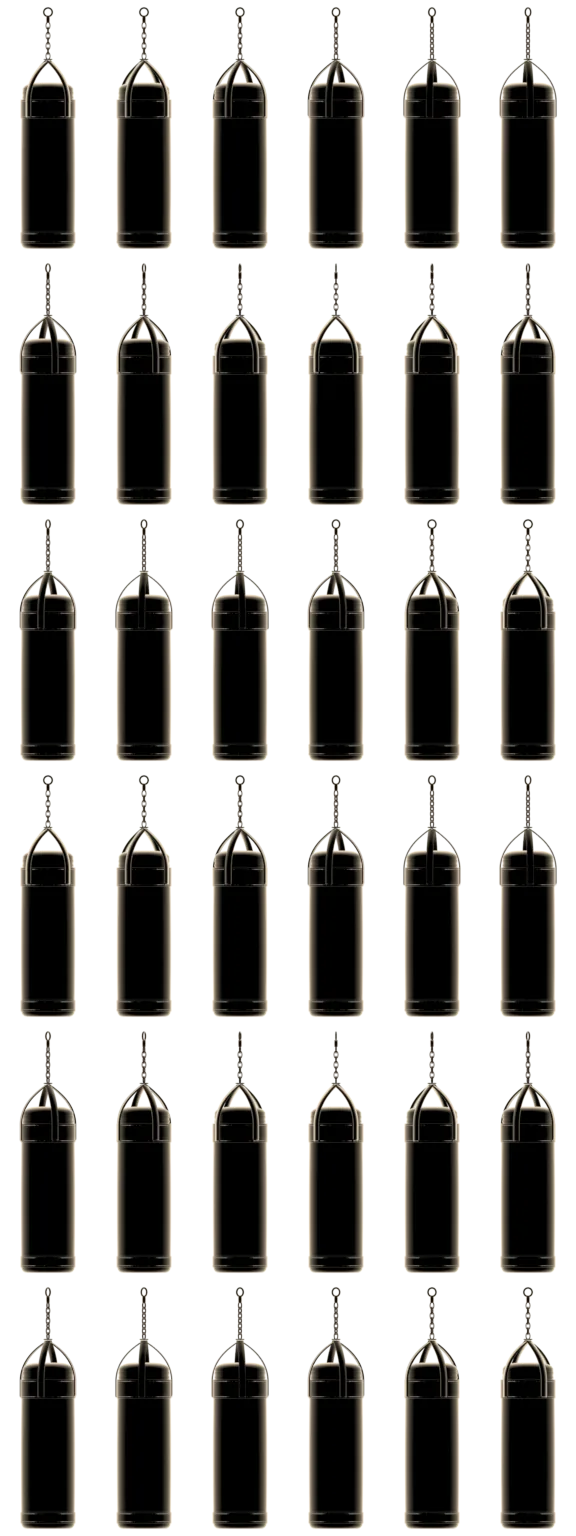
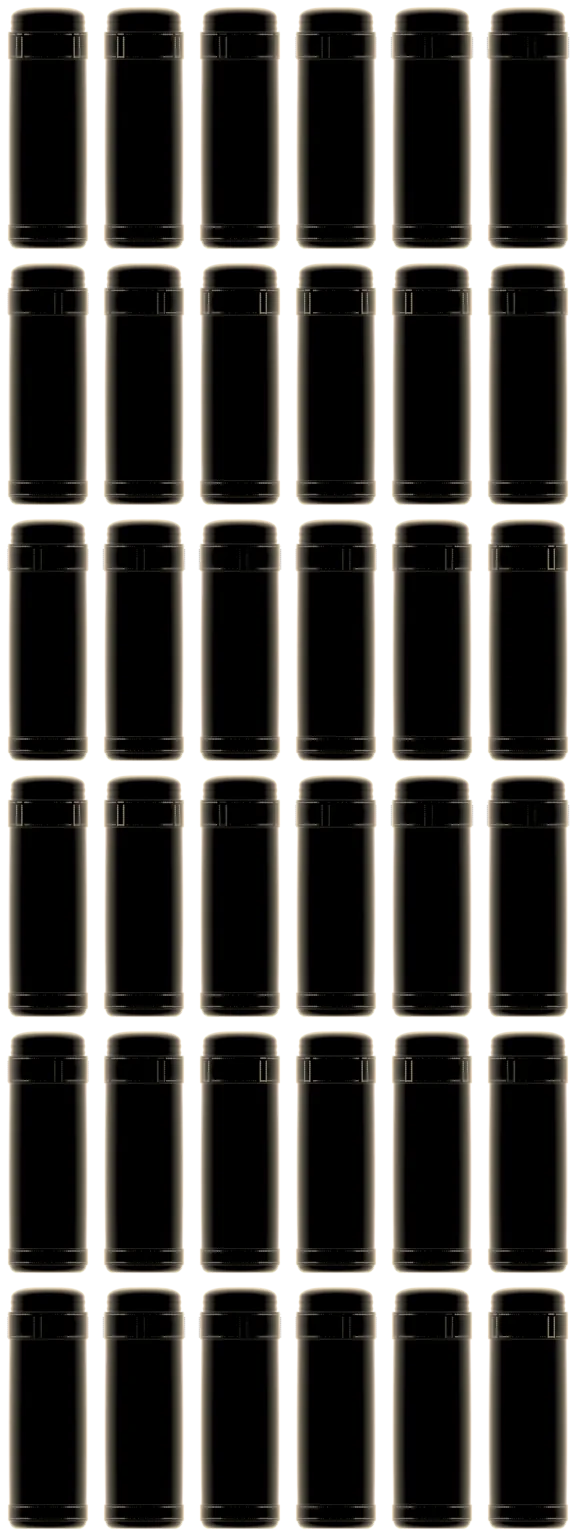
Spinning bags: body only (no chain, hook, swivel or straps)
Claude-Session: https://claude.ai/code/session_011VJV1VMdnuHt1uRrDGnwGt

diff --git a/tools/runner/render_bag.py b/tools/runner/render_bag.py
@@ -16,6 +16,9 @@ root = os.path.dirname(os.path.abspath(__file__))
 bpy.ops.wm.read_factory_settings(use_empty=True)
 bpy.ops.import_scene.gltf(filepath=os.path.join(root, "..", "..", "apps", "web", "public", "assets", "bag3d", "bag_4ft.glb"))
 scene = bpy.context.scene
+# only the bag itself: no chain, hook, swivel or straps
+for o in [o for o in bpy.data.objects if o.type == "MESH" and (o.name.startswith("metal") or o.name.startswith("strap"))]:
+    bpy.data.objects.remove(o, do_unlink=True)
 meshes = [o for o in bpy.data.objects if o.type == "MESH"]
 
 mat = bpy.data.materials.new("sil"); mat.use_nodes = True
